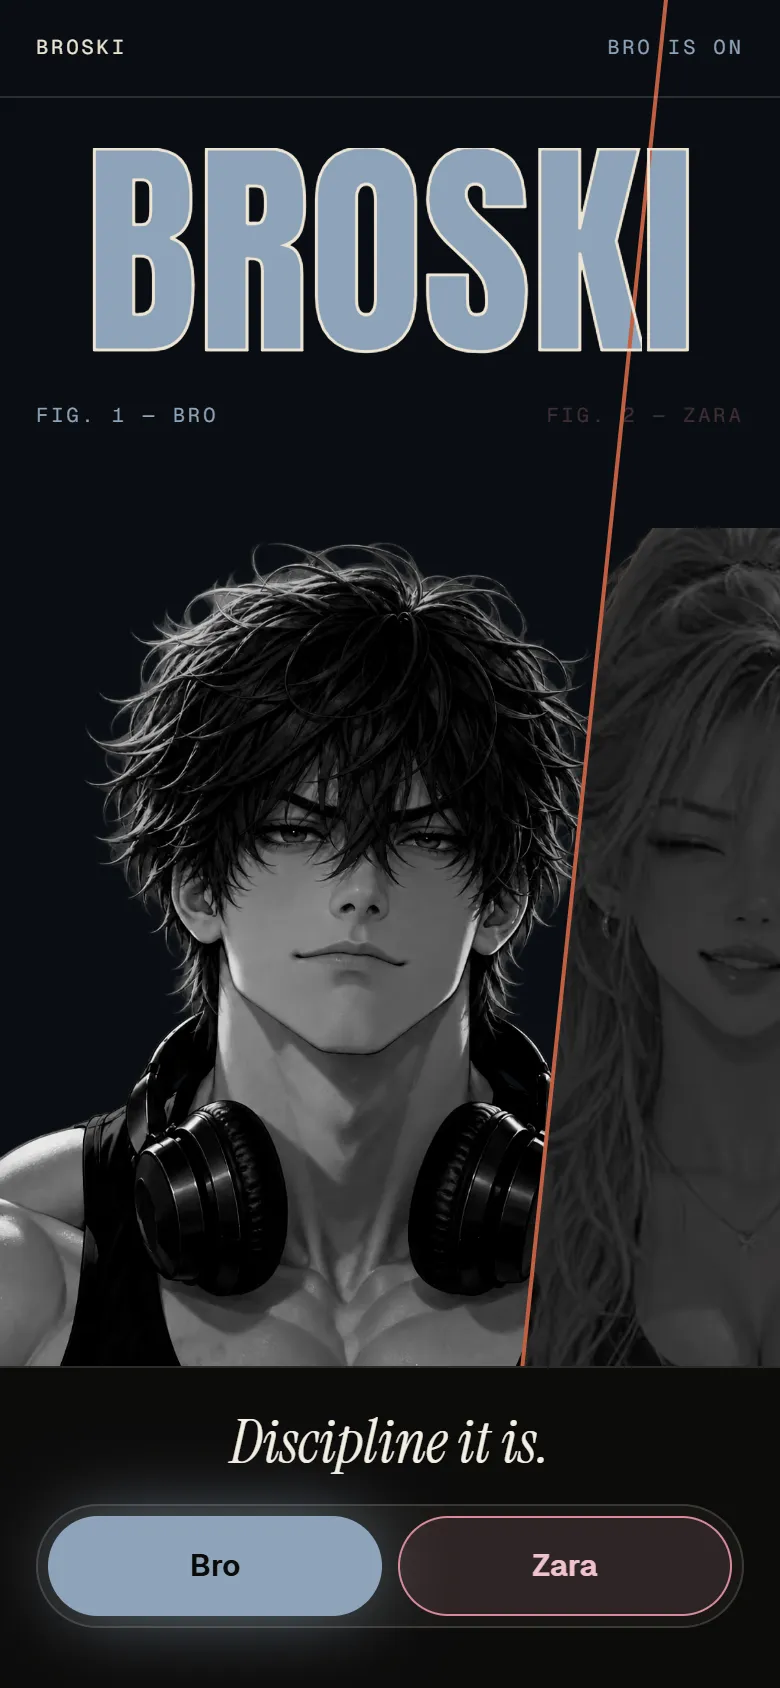
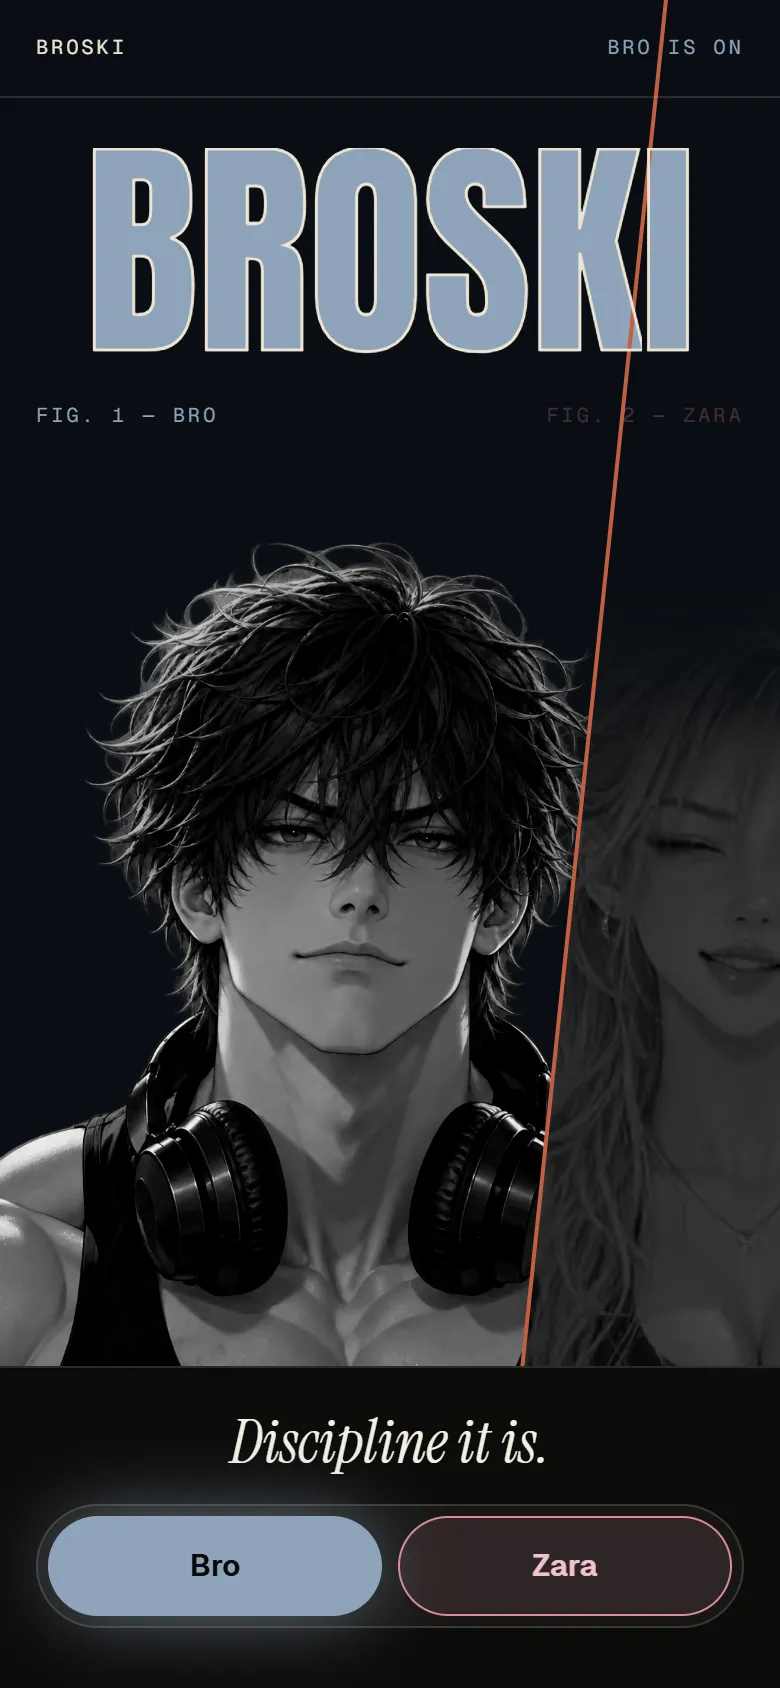
Follow-ups: Zara top fade on phones, per-feature tick marks, phone dots on the track, one film line
- phone hero: eased mask fades the flat top of Zara's picture (360-430 px)
- 03 bento: each card's icon is its own lit tick on a 36-tick ring, drawn in code
- phone day: scene dots sit on the outer arc track, clear of the sky window
- README: the film line once, with a #film anchor
Tests for each; 36 passing.

Changed region(s): [[0.7692, 0.3081, 1.0, 0.4005]]

diff --git a/src/data/features.ts b/src/data/features.ts
@@ -1,8 +1,8 @@
 // Section 03: the 36 features in six groups, exactly as in the mockup.
-export interface FeatureGroup { g: string; glyph: string; items: { t: string; d: string }[] }
+export interface FeatureGroup { g: string; items: { t: string; d: string }[] }
 
 export const GROUPS: FeatureGroup[] = [
-  { g: 'Track', glyph: '○', items: [
+  { g: 'Track', items: [
     { t: 'Habits with scars', d: 'A frozen day stays visible in the grid' },
     { t: '66-day counter', d: 'Each habit counts towards automatic' },
     { t: 'Tasks carry over', d: 'At 04:00, and missed days are counted' },
@@ -10,7 +10,7 @@ export const GROUPS: FeatureGroup[] = [
     { t: 'Screen time', d: 'Banking and private windows never logged' },
     { t: 'Calendar', d: 'Reads both calendars, can add events' },
   ] },
-  { g: 'Train', glyph: '▲', items: [
+  { g: 'Train', items: [
     { t: 'Workout sync', d: 'Pulls the session when you say you are done' },
     { t: 'Overload checks', d: 'Top of range, stalls, too many drop sets' },
     { t: 'Machine levels', d: 'Stack pins never mixed into kg' },
@@ -18,7 +18,7 @@ export const GROUPS: FeatureGroup[] = [
     { t: 'Split aware', d: 'Knows which day is next' },
     { t: 'Deload weeks', d: 'Counted and announced' },
   ] },
-  { g: 'Work', glyph: '■', items: [
+  { g: 'Work', items: [
     { t: 'Job radar', d: 'Ten countries, several boards, scored first' },
     { t: 'Pipeline', d: 'Applied to offer. It never applies for you' },
     { t: 'AI brief', d: 'Five sourced items a day, at most' },
@@ -26,7 +26,7 @@ export const GROUPS: FeatureGroup[] = [
     { t: 'Snippets', d: 'Saved prompts returned word for word' },
     { t: 'Notes canvas', d: 'Sticky notes from the app, voice or phone' },
   ] },
-  { g: 'Learn', glyph: '◆', items: [
+  { g: 'Learn', items: [
     { t: 'Arabic', d: 'Notes, flashcards, spaced repetition' },
     { t: 'Trading academy', d: '108 lessons, drills graded by rules' },
     { t: 'Paper first', d: 'Graduation gates in code. It never trades' },
@@ -34,7 +34,7 @@ export const GROUPS: FeatureGroup[] = [
     { t: 'Glossary', d: '2,549 terms, searchable' },
     { t: 'Weekly homework', d: 'One focus rule from your weakest skill' },
   ] },
-  { g: 'Brain', glyph: '✦', items: [
+  { g: 'Brain', items: [
     { t: 'Remembers you', d: 'Imports your claude.ai and ChatGPT history' },
     { t: 'Secrets scrubbed', d: 'Before anything is read' },
     { t: 'Correct me', d: 'Shows what it knows. You approve each fact' },
@@ -42,7 +42,7 @@ export const GROUPS: FeatureGroup[] = [
     { t: 'Your words', d: 'Quoted exactly, never rewritten' },
     { t: 'Shared memory', d: 'Other AI apps can ask it. Off by default' },
   ] },
-  { g: 'Reach', glyph: '◯', items: [
+  { g: 'Reach', items: [
     { t: 'The bubble', d: 'Over any app, never over fullscreen' },
     { t: 'Telegram', d: '/today, /jobs, /gym, quick buttons, voice notes' },
     { t: 'Two voices', d: 'Wake word and live mode you can interrupt' },

diff --git a/src/render/page.ts b/src/render/page.ts
@@ -7,7 +7,7 @@ import { renderDay } from './day';
 import { esc, picture } from './util';
 
 const letters = 'BROSKI'.split('').map((c, i) => `<span class="mask"><span class="ltr" style="--d:${(0.08 * i).toFixed(2)}s">${c}</span></span>`).join('');
-const filmAttrs = FILM_URL ? `href="${FILM_URL}"` : `href="${GITHUB_URL}#-film" data-soon aria-describedby="film-soon"`;
+const filmAttrs = FILM_URL ? `href="${FILM_URL}"` : `href="${GITHUB_URL}#film" data-soon aria-describedby="film-soon"`;
 const ext = 'target="_blank" rel="noopener"';
 
 function hero() {
@@ -43,6 +43,20 @@ function hero() {
 </section>`;
 }
 
+/** The 36 marks' angles on the section 03 ring: six groups of six, 60deg apart. */
+const MARK_ANGLES = Array.from({ length: 36 }, (_, i) => 6 + Math.floor(i / 6) * 60 + (i % 6) * 9.6);
+
+/** A small copy of the ring with one tick lit: the feature's own mark on the dial. */
+function tickIcon(lit: number) {
+  const seg = (a: number, r1: number, r2: number) => {
+    const t = (a * Math.PI) / 180, s = Math.sin(t), c = Math.cos(t);
+    const f = (v: number) => v.toFixed(2);
+    return `M${f(17 + r1 * s)} ${f(17 - r1 * c)}L${f(17 + r2 * s)} ${f(17 - r2 * c)}`;
+  };
+  const rest = MARK_ANGLES.map((a, i) => (i === lit ? '' : seg(a, 12, 15.5))).join('');
+  return `<svg class="tile__mark" viewBox="0 0 34 34" width="34" height="34" aria-hidden="true"><path class="tk" d="${rest}"/><path class="tk-on" d="${seg(MARK_ANGLES[lit], 9, 16.5)}"/></svg>`;
+}
+
 function rest() {
   const marks = GROUPS.map((_, g) => Array.from({ length: 6 }, (_, k) =>
     `<span class="mark" data-g="${g}" style="--a:${(6 + g * 60 + k * 9.6).toFixed(1)}deg"></span>`).join('')).join('');
@@ -56,7 +70,7 @@ function rest() {
     return `<div role="tabpanel" id="panel-${id}" class="bento" aria-labelledby="tab-${id}" tabindex="0">
       <h3 class="sr-only">${g.g}: six features</h3>
       <ul class="bento__grid">${g.items.map((it, k) => `
-        <li class="tile${k === 0 ? ' tile--acc' : ''}"><span class="tile__top"><span class="tile__glyph" aria-hidden="true">${g.glyph}</span><span class="tile__n" aria-hidden="true">0${k + 1}</span></span><b class="tile__t">${esc(it.t)}</b><span class="tile__d">${esc(it.d)}</span></li>`).join('')}
+        <li class="tile${k === 0 ? ' tile--acc' : ''}"><span class="tile__top">${tickIcon(i * 6 + k)}<span class="tile__n" aria-hidden="true">0${k + 1}</span></span><b class="tile__t">${esc(it.t)}</b><span class="tile__d">${esc(it.d)}</span></li>`).join('')}
       </ul>
     </div>`;
   }).join('');

diff --git a/tests/review.spec.ts b/tests/review.spec.ts
@@ -67,3 +67,49 @@ test('hero controls are visible while focused during the intro', async ({ page }
   await page.locator('.hero [data-pick="zara"]').focus();
   expect(await page.locator('.chooser').evaluate((n) => getComputedStyle(n).opacity)).toBe('1');
 });
+
+// ---- follow-up fixes ----
+
+for (const width of [360, 390, 430]) {
+  test(`phone ${width}px: the top of Zara's picture fades out instead of ending on a hard edge`, async ({ browser }) => {
+    const ctx = await browser.newContext({ viewport: { width, height: 844 }, isMobile: true, hasTouch: true });
+    const page = await ctx.newPage();
+    await page.goto('./');
+    const mask = await page.locator('.face--zara .pic').evaluate((n) => {
+      const cs = getComputedStyle(n);
+      return cs.maskImage || cs.webkitMaskImage;
+    });
+    // starts fully transparent at the top edge, then fades in
+    expect(mask).toMatch(/^linear-gradient\((rgba\(0, 0, 0, 0\)|transparent) 0(px|%)?,/);
+    await ctx.close();
+  });
+}
+
+test('03: every bento card has its own mark: one lit tick on a 36-tick ring', async ({ page }) => {
+  await page.goto('./');
+  const marks = await page.locator('.bento .tile__mark').evaluateAll((svgs) =>
+    svgs.map((s) => ({ lit: s.querySelector('.tk-on')!.getAttribute('d'), ticks: (s.querySelector('.tk')!.getAttribute('d')!.match(/M/g) || []).length })));
+  expect(marks).toHaveLength(36);
+  expect(new Set(marks.map((m) => m.lit)).size).toBe(36);
+  for (const m of marks) expect(m.ticks).toBe(35);
+  const lit = await page.locator('#panel-learn .tile').nth(1).locator('.tk-on').evaluate((n) => getComputedStyle(n).stroke);
+  expect(lit).toBe(ROSE);
+});
+
+test('phone day: the scene dots sit on the outer track, clear of the sky window', async ({ browser }) => {
+  const ctx = await browser.newContext({ viewport: { width: 390, height: 844 }, isMobile: true, hasTouch: true });
+  const page = await ctx.newPage();
+  await page.goto('./');
+  await gotoScene(page, 5);
+  const r = await page.evaluate(() => {
+    const win = document.querySelector('.win')!.getBoundingClientRect();
+    const cx = win.left + win.width / 2, cy = win.top + win.height / 2;
+    return [...document.querySelectorAll('.dot')].map((d) => {
+      const b = d.getBoundingClientRect();
+      return { inner: Math.hypot(b.left + b.width / 2 - cx, b.top + b.height / 2 - cy) - b.width / 2, win: win.width / 2 };
+    });
+  });
+  expect(r).toHaveLength(12);
+  for (const d of r) expect(d.inner).toBeGreaterThan(d.win);
+  await ctx.close();
+});

diff --git a/src/styles/day.css b/src/styles/day.css
@@ -377,7 +377,7 @@ body[data-persona='bro'] .only-zara { display: none; }
 @media (max-width: 700px) {
   .day.is-live .day__stage {
     --D: 236px; --win-in: 34px; --arc-in: 27px; --arc-th: 4px; --arc-thick: 16px;
-    --hand-top: 26px; --hand-len: 22px; --digit: 32px; --ctr-in: 47px; --sun: 26px; --moon: 20px; --dotR: calc(var(--D) / 2 - 34px);
+    --hand-top: 26px; --hand-len: 22px; --digit: 32px; --ctr-in: 47px; --sun: 26px; --moon: 20px; --dotR: calc(var(--D) / 2 - var(--arc-in) - var(--arc-th) / 2);
   }
   .day__bar { gap: 8px; padding: 14px 16px; font-size: 10px; }
   .hchips, .day__hint, .day__brand-x { display: none; }
@@ -385,6 +385,7 @@ body[data-persona='bro'] .only-zara { display: none; }
   .pswitch button { padding: 5px 10px; }
   .playbtn { padding: 7px 11px; }
   .lab__in { font-size: 8px; } .lab--big .lab__in { font-size: 9px; }
+  .dot { width: 5px; height: 5px; margin: -2.5px 0 0 -2.5px; opacity: .9; }
   .ctr__tag { font-size: 8px; letter-spacing: .18em; padding: 2px 6px; top: calc(50% + var(--digit) * .36); }
   .ctr__score .micro { font-size: 8px; } .ctr__note { font-size: 10px; }
   .day__cue { left: 0; width: 100%; top: calc(var(--dy) + var(--D) + 40px); font-size: 10px; }

diff --git a/src/styles/sections.css b/src/styles/sections.css
@@ -38,7 +38,11 @@
 }
 .tile--acc { background: var(--acc); color: #0C0B0A; transition: background-color .5s ease; }
 .tile__top { display: flex; justify-content: space-between; align-items: center; margin-bottom: auto; }
-.tile__glyph { width: 34px; height: 34px; border-radius: 50%; display: grid; place-items: center; border: 1px solid currentColor; font-size: 14px; }
+.tile__mark { flex: none; overflow: visible; }
+.tile__mark .tk { stroke: currentColor; stroke-width: 1.3; stroke-linecap: round; opacity: .38; }
+.tile__mark .tk-on { stroke: var(--acc); stroke-width: 2.4; stroke-linecap: round; }
+.tile--acc .tile__mark .tk { opacity: .45; }
+.tile--acc .tile__mark .tk-on { stroke: #0C0B0A; }
 .tile__n { font-family: var(--mono); font-size: 10px; letter-spacing: .2em; opacity: .75; }
 .tile__t { font-weight: 600; font-size: 19px; letter-spacing: -.02em; line-height: 1.2; }
 .tile__d { font-size: 13px; line-height: 1.45; color: #B4AC9E; }

diff --git a/src/styles/hero.css b/src/styles/hero.css
@@ -125,6 +125,11 @@
   .word { top: 74px; font-size: min(118px, 30vw); }
   .word--outline { -webkit-text-stroke-width: 1.5px; }
   .pic { bottom: 150px; }
+  /* Zara's file is cropped flat through her hair; fade it out at the top, the way Bro's hair thins out. */
+  .face--zara .pic {
+    -webkit-mask-image: linear-gradient(to bottom, transparent 0, transparent 6%, rgba(0, 0, 0, .06) 11%, rgba(0, 0, 0, .2) 16%, rgba(0, 0, 0, .45) 21%, rgba(0, 0, 0, .74) 27%, #000 34%);
+    mask-image: linear-gradient(to bottom, transparent 0, transparent 6%, rgba(0, 0, 0, .06) 11%, rgba(0, 0, 0, .2) 16%, rgba(0, 0, 0, .45) 21%, rgba(0, 0, 0, .74) 27%, #000 34%);
+  }
   .fig { top: 200px; bottom: auto; max-width: none; }
   .fig--bro { left: 18px; } .fig--zara { right: 18px; }
   .fig__k { font-size: 10px; }

diff --git a/docs/BUILD-LOG.md b/docs/BUILD-LOG.md
@@ -44,6 +44,13 @@ Assumptions are numbered B1, B2, … and the safer choice was taken each time.
 - **B25. Phone hero hint** ("TAP TO CHOOSE" / "NOW SCROLL…") is hidden on phones, as in G7.
 - **B26. No-JS fallbacks.** All six feature groups render visible and JS turns them into tabs; the film links point to the README's film slot when JS is off.
 
+## Follow-up fixes (after Claude's screenshot review)
+
+1. **Phone hero:** Zara's file is cropped flat through her hair, so on phones the top of her picture fades out with an eased mask (transparent to 6 %, opaque by 34 % of the image height), like Bro's hair thins out. Checked at 360, 390 and 430 px; tested at all three.
+2. **03 bento icons:** the shared group glyph is replaced by the feature's own mark. Each card has a 36-tick ring drawn in code (an inline SVG with two paths) with its tick lit in the persona colour, at the same angle as its mark on the big ring. No icon library, no emoji. Tested: 36 different marks.
+3. **Phone day:** the scene dots moved from the edge of the sky window onto the outer track (5 px, centred on the arc band). Tested: every dot clears the window.
+4. **README:** the film line appears once, with an `<a id="film">` anchor; "Watch the film" and the site's no-JS film links point to `#film`.
+
 ## RAM waits
 
 Browser runs (Playwright, Lighthouse) wait for 4 GB of free RAM: `scripts/ramcheck.mjs`, re-checking every 2 minutes for up to 30 minutes. Every wait is in `docs/ram-waits.log`. The first check waited twice (2.67 GB, 2.84 GB free); after that Zaid lifted the rule, and runs continued one browser at a time, each closed when done.
@@ -86,7 +93,7 @@ Two review passes ran after the first full build (separate reviewers).
 
 ## Tests and Lighthouse
 
-- **Playwright:** 31 tests, all passing (Chromium build 1243, 1440×900 and 390×844).
+- **Playwright:** 36 tests, all passing (Chromium build 1243, 1440×900 and 390×844).
 - **Lighthouse** (`npm run lighthouse`, local preview build):
 
 | | Performance | Accessibility | Best Practices | SEO |

diff --git a/docs/REPORT.md b/docs/REPORT.md
@@ -36,6 +36,7 @@ The Broski landing page (GitHub Pages) and the public README, built from the dec
   - Sections: [03](screens/desktop-03-rest.webp) · [04](screens/desktop-04-hood.webp) · [05](screens/desktop-05-yours.webp) · [footer](screens/desktop-06-footer.webp)
 - **Phone (390×844):** the same set with the `phone-` prefix in [screens/](screens/).
 - **Reduced motion:** [the still day](screens/reduced-motion-day.webp)
+- **Phone hero at the edge widths:** [360 px](screens/phone-360-01-hero.webp) · [430 px](screens/phone-430-01-hero.webp)
 
 ![Hero](screens/desktop-01-hero.webp)
 ![16:40](screens/desktop-day-09.webp)
@@ -47,7 +48,7 @@ The Broski landing page (GitHub Pages) and the public README, built from the dec
 
 ## Tests and Lighthouse
 
-- **Playwright:** 31 passing.
+- **Playwright:** 36 passing.
   - Load with no console errors and no third-party requests.
   - CSP and meta present; no cookies or storage written.
   - Persona recolouring and hover peek.

diff --git a/README.md b/README.md
@@ -4,15 +4,13 @@
 
 **A personal AI life-OS with two voices that knows my day, calls me out, and asks before anything leaves the laptop.**
 
-[Live site](https://zaidzyy.github.io/broski-site/) · [Watch the film](#-film) · [How it's built](#how-its-built)
+[Live site](https://zaidzyy.github.io/broski-site/) · [Watch the film](#film) · [How it's built](#how-its-built)
 
 `Electron` · `React` · `TypeScript` · `SQLite` · `Claude Agent SDK` · `Ollama` · `faster-whisper` · `Kokoro` · `Telegram Bot API`
 
 </div>
 
-### 🎬 Film
-
-🎬 Film: made with HyperFrames × Claude Code (coming soon)
+<a id="film"></a>🎬 Film: made with HyperFrames × Claude Code (coming soon)
 
 ---
 

diff --git a/docs/README.template.md b/docs/README.template.md
@@ -4,15 +4,13 @@
 
 **A personal AI life-OS with two voices that knows my day, calls me out, and asks before anything leaves the laptop.**
 
-[Live site](https://zaidzyy.github.io/broski-site/) · [Watch the film](#-film) · [How it's built](#how-its-built)
+[Live site](https://zaidzyy.github.io/broski-site/) · [Watch the film](#film) · [How it's built](#how-its-built)
 
 `Electron` · `React` · `TypeScript` · `SQLite` · `Claude Agent SDK` · `Ollama` · `faster-whisper` · `Kokoro` · `Telegram Bot API`
 
 </div>
 
-### 🎬 Film
-
-🎬 Film: made with HyperFrames × Claude Code (coming soon)
+<a id="film"></a>🎬 Film: made with HyperFrames × Claude Code (coming soon)
 
 ---
 
